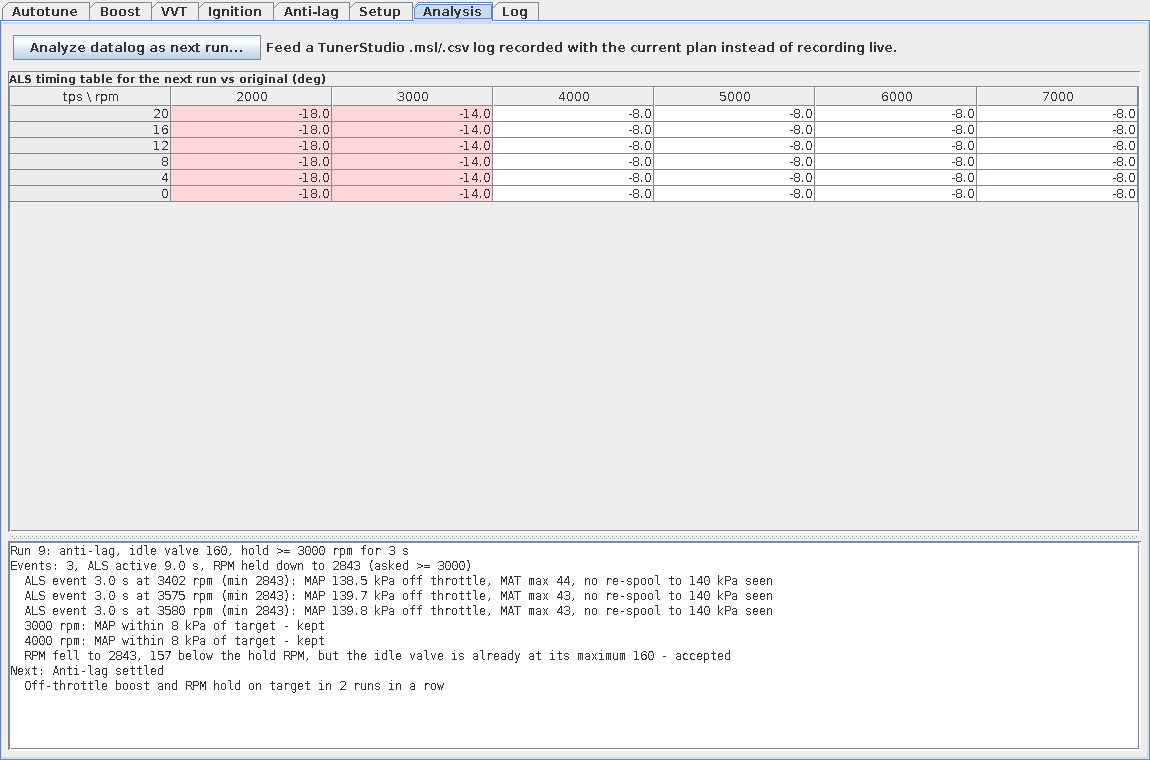
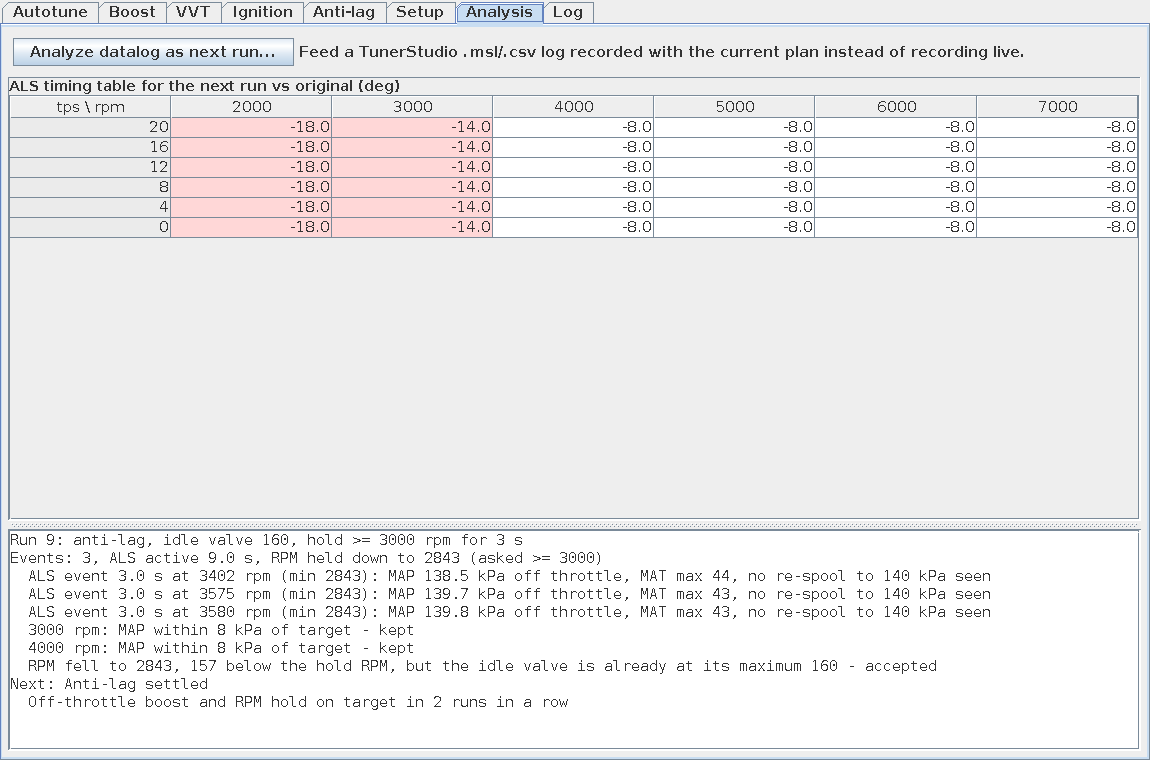
Larger text across the plugin with a Text size choice
Every component of the plugin is scaled from its own base font (kept
in a client property, so re-applying never compounds); tables scale
their row height and header too. Default 125 %, choices up to 175 %
on the Setup tab, remembered in the settings file. Only the plugin's
component tree is touched, the host application's look and feel stays
as it is. Panels that rebuild parts of themselves re-apply the scale.

Claude-Session: https://claude.ai/code/session_01WMDcv15XFjgY16SMi8wYho

diff --git a/boost-autotune-plugin/src/main/java/io/github/xadmiral/boostautotune/plugin/ui/Fonts.java b/boost-autotune-plugin/src/main/java/io/github/xadmiral/boostautotune/plugin/ui/Fonts.java
@@ -1,0 +1,109 @@
+package io.github.xadmiral.boostautotune.plugin.ui;
+
+import javax.swing.JComponent;
+import javax.swing.JTabbedPane;
+import javax.swing.JTable;
+import javax.swing.table.JTableHeader;
+import java.awt.Component;
+import java.awt.Container;
+import java.awt.Font;
+
+/**
+ * Text size for the whole plugin. Every component keeps its original ("base") font in a client
+ * property, so the scale can be applied again and again (after a refresh, or when the user picks
+ * another size) without compounding. Only the plugin's own component tree is touched: the host
+ * application's look and feel defaults stay as they are.
+ */
+public final class Fonts {
+    public static final String[] CHOICES = {"100 %", "125 %", "150 %", "175 %"};
+    public static final double DEFAULT_SCALE = 1.25;
+    private static final String BASE_FONT = "boostAutotune.baseFont";
+    private static final String BASE_ROW_HEIGHT = "boostAutotune.baseRowHeight";
+    private static volatile double current = DEFAULT_SCALE;
+
+    private Fonts() {
+    }
+
+    /** Parses a choice like "125 %" (or a plain number) into a scale; the default on garbage. */
+    public static double parse(String text) {
+        if (text == null) {
+            return DEFAULT_SCALE;
+        }
+        try {
+            double v = Double.parseDouble(text.replace("%", "").trim());
+            if (v > 10) {
+                v /= 100.0;
+            }
+            return v >= 0.5 && v <= 3 ? v : DEFAULT_SCALE;
+        } catch (NumberFormatException e) {
+            return DEFAULT_SCALE;
+        }
+    }
+
+    public static String choiceFor(double scale) {
+        for (String c : CHOICES) {
+            if (Math.abs(parse(c) - scale) < 1e-9) {
+                return c;
+            }
+        }
+        return Long.toString(Math.round(scale * 100)) + " %";
+    }
+
+    /** The scale the plugin is currently using (panels that rebuild parts of themselves re-apply it). */
+    public static double current() {
+        return current;
+    }
+
+    public static void setCurrent(double scale) {
+        current = scale;
+    }
+
+    /** Applies the scale to a whole component tree. Safe to call repeatedly. */
+    public static void apply(Component root, double scale) {
+        if (root == null) {
+            return;
+        }
+        if (root instanceof JComponent) {
+            scaleOne((JComponent) root, scale);
+        }
+        if (root instanceof JTabbedPane) {
+            JTabbedPane tabs = (JTabbedPane) root;
+            for (int i = 0; i < tabs.getTabCount(); i++) {
+                apply(tabs.getComponentAt(i), scale);
+            }
+        }
+        if (root instanceof Container) {
+            for (Component c : ((Container) root).getComponents()) {
+                apply(c, scale);
+            }
+        }
+        if (root instanceof JTable) {
+            JTable t = (JTable) root;
+            JTableHeader h = t.getTableHeader();
+            if (h != null) {
+                scaleOne(h, scale);
+            }
+        }
+    }
+
+    private static void scaleOne(JComponent c, double scale) {
+        Font base = (Font) c.getClientProperty(BASE_FONT);
+        if (base == null) {
+            base = c.getFont();
+            if (base == null) {
+                return;
+            }
+            c.putClientProperty(BASE_FONT, base);
+        }
+        c.setFont(base.deriveFont((float) (base.getSize2D() * scale)));
+        if (c instanceof JTable) {
+            JTable t = (JTable) c;
+            Integer baseRow = (Integer) t.getClientProperty(BASE_ROW_HEIGHT);
+            if (baseRow == null) {
+                baseRow = t.getRowHeight();
+                t.putClientProperty(BASE_ROW_HEIGHT, baseRow);
+            }
+            t.setRowHeight((int) Math.round(baseRow * scale));
+        }
+    }
+}

diff --git a/boost-autotune-plugin/src/main/java/io/github/xadmiral/boostautotune/plugin/ui/MainPanel.java b/boost-autotune-plugin/src/main/java/io/github/xadmiral/boostautotune/plugin/ui/MainPanel.java
@@ -42,6 +42,9 @@ public final class MainPanel extends JPanel implements TuneController.Listener {
     private final AnalysisPanel analysis;
     private final LogPanel logPanel = new LogPanel();
     private final JTabbedPane tabs = new JTabbedPane();
+    private final Properties uiPrefs = new Properties();
+    private double fontScale = Fonts.DEFAULT_SCALE;
+    private final javax.swing.JComboBox<String> textSize = new javax.swing.JComboBox<String>(Fonts.CHOICES);
 
     public MainPanel(EcuPort port, SettingsStore store) {
         super(new BorderLayout());
@@ -49,7 +52,7 @@ public final class MainPanel extends JPanel implements TuneController.Listener {
         EcuBinding b = EcuPresets.create(EcuPresets.STEALTH_PCM);
         if (store != null && store.exists()) {
             try {
-                store.load(cfg, vvtSweep, ignSweep, vvtPid, als, b, new Properties());
+                store.load(cfg, vvtSweep, ignSweep, vvtPid, als, b, uiPrefs);
             } catch (IOException e) {
                 b = EcuPresets.create(EcuPresets.STEALTH_PCM);
             }
@@ -95,6 +98,22 @@ public final class MainPanel extends JPanel implements TuneController.Listener {
         tabs.addTab("Analysis", analysis);
         tabs.addTab("Log", logPanel);
         add(tabs, BorderLayout.CENTER);
+        // text size: the whole plugin is scaled from the components' own fonts, the host application is untouched
+        fontScale = Fonts.parse(uiPrefs.getProperty("fontScale", Fonts.choiceFor(Fonts.DEFAULT_SCALE)));
+        textSize.setSelectedItem(Fonts.choiceFor(fontScale));
+        JPanel sizeRow = new JPanel(new java.awt.FlowLayout(java.awt.FlowLayout.LEFT, 4, 0));
+        sizeRow.add(new javax.swing.JLabel("  Text size:"));
+        sizeRow.add(textSize);
+        setup.addTopControl(sizeRow);
+        textSize.addActionListener(new java.awt.event.ActionListener() {
+            public void actionPerformed(java.awt.event.ActionEvent e) {
+                Object sel = textSize.getSelectedItem();
+                if (sel != null) {
+                    setFontScale(Fonts.parse(sel.toString()));
+                }
+            }
+        });
+        applyFontScale();
         logPanel.append("Boost Autotune ready. ECU: " + (port == null ? "none" : port.signature()));
         if (store != null) {
             logPanel.append("Settings file: " + store.file());
@@ -137,12 +156,31 @@ public final class MainPanel extends JPanel implements TuneController.Listener {
         return autotune;
     }
 
+    public double fontScale() {
+        return fontScale;
+    }
+
+    /** Changes the text size of the whole plugin and remembers it. */
+    public void setFontScale(double scale) {
+        fontScale = scale;
+        applyFontScale();
+        saveSettings();
+    }
+
+    private void applyFontScale() {
+        Fonts.setCurrent(fontScale);
+        Fonts.apply(this, fontScale);
+        revalidate();
+        repaint();
+    }
+
     private void saveSettings() {
         if (store == null) {
             return;
         }
         try {
-            store.save(cfg, vvtSweep, ignSweep, vvtPid, als, binding, new Properties());
+            uiPrefs.setProperty("fontScale", Fonts.choiceFor(fontScale));
+            store.save(cfg, vvtSweep, ignSweep, vvtPid, als, binding, uiPrefs);
         } catch (IOException e) {
             logPanel.append("Could not save settings: " + e.getMessage());
         }

diff --git a/boost-autotune-plugin/src/test/java/io/github/xadmiral/boostautotune/plugin/ui/MainPanelHeadlessTest.java b/boost-autotune-plugin/src/test/java/io/github/xadmiral/boostautotune/plugin/ui/MainPanelHeadlessTest.java
@@ -24,6 +24,19 @@ class MainPanelHeadlessTest {
         });
         MainPanel p = holder[0];
         assertNotNull(p.controller().port());
+        // text is scaled up by default, from every component's own base font, and the choice is remembered
+        assertEquals(1.25, p.fontScale(), 1e-9);
+        javax.swing.JLabel probe = new javax.swing.JLabel("x");
+        float base = probe.getFont().getSize2D();
+        assertEquals(Math.round(base * 1.25), Math.round(p.autotunePanel().getFont().getSize2D()));
+        SwingUtilities.invokeAndWait(new Runnable() {
+            public void run() {
+                holder[0].setFontScale(1.5);
+                holder[0].setFontScale(1.5); // applying twice must not compound
+            }
+        });
+        assertEquals(Math.round(base * 1.5), Math.round(p.autotunePanel().getFont().getSize2D()));
+        assertEquals("150 %", new SettingsStore(f).loadRaw().getProperty("ui.fontScale"), "text size is remembered right away");
         assertEquals("boost_ctl_load_targets", p.binding().targetTable);
         p.config().targetStagesKpa.add(175.0);
         p.ignitionSweepConfig().maxAdvanceOverOriginalDeg = 3;

diff --git a/boost-autotune-plugin/src/main/java/io/github/xadmiral/boostautotune/plugin/ui/SetupPanel.java b/boost-autotune-plugin/src/main/java/io/github/xadmiral/boostautotune/plugin/ui/SetupPanel.java
@@ -131,6 +131,13 @@ public final class SetupPanel extends JPanel {
     private List<String> channels = new ArrayList<String>();
     private List<String> params = new ArrayList<String>();
     private final Runnable onChanged;
+    private JPanel top;
+
+    /** Adds a control to the row of buttons at the top (the main panel puts the text size choice there). */
+    public void addTopControl(java.awt.Component c) {
+        top.add(c);
+        top.revalidate();
+    }
 
     public SetupPanel(EcuBinding binding, EcuPort port, Runnable onChanged) {
         super(new BorderLayout(6, 6));
@@ -139,7 +146,7 @@ public final class SetupPanel extends JPanel {
         this.onChanged = onChanged;
         setBorder(BorderFactory.createEmptyBorder(6, 6, 6, 6));
 
-        JPanel top = new JPanel(new FlowLayout(FlowLayout.LEFT));
+        top = new JPanel(new FlowLayout(FlowLayout.LEFT));
         top.add(new JLabel("ECU configuration:"));
         top.add(configCombo);
         top.add(new JLabel("Preset:"));

diff --git a/boost-autotune-plugin/src/main/java/io/github/xadmiral/boostautotune/plugin/ui/AnalysisPanel.java b/boost-autotune-plugin/src/main/java/io/github/xadmiral/boostautotune/plugin/ui/AnalysisPanel.java
@@ -62,6 +62,13 @@ public final class AnalysisPanel extends JPanel {
     /** Rebuilds the tables and text from the controller's current driver. */
     public void refresh() {
         tables.removeAll();
+        refreshTables();
+        Fonts.apply(tables, Fonts.current());
+        tables.revalidate();
+        tables.repaint();
+    }
+
+    private void refreshTables() {
         List<TableView> views = ctl.tables();
         tables.setLayout(new GridLayout(1, Math.max(1, views.size()), 6, 6));
         for (TableView v : views) {
